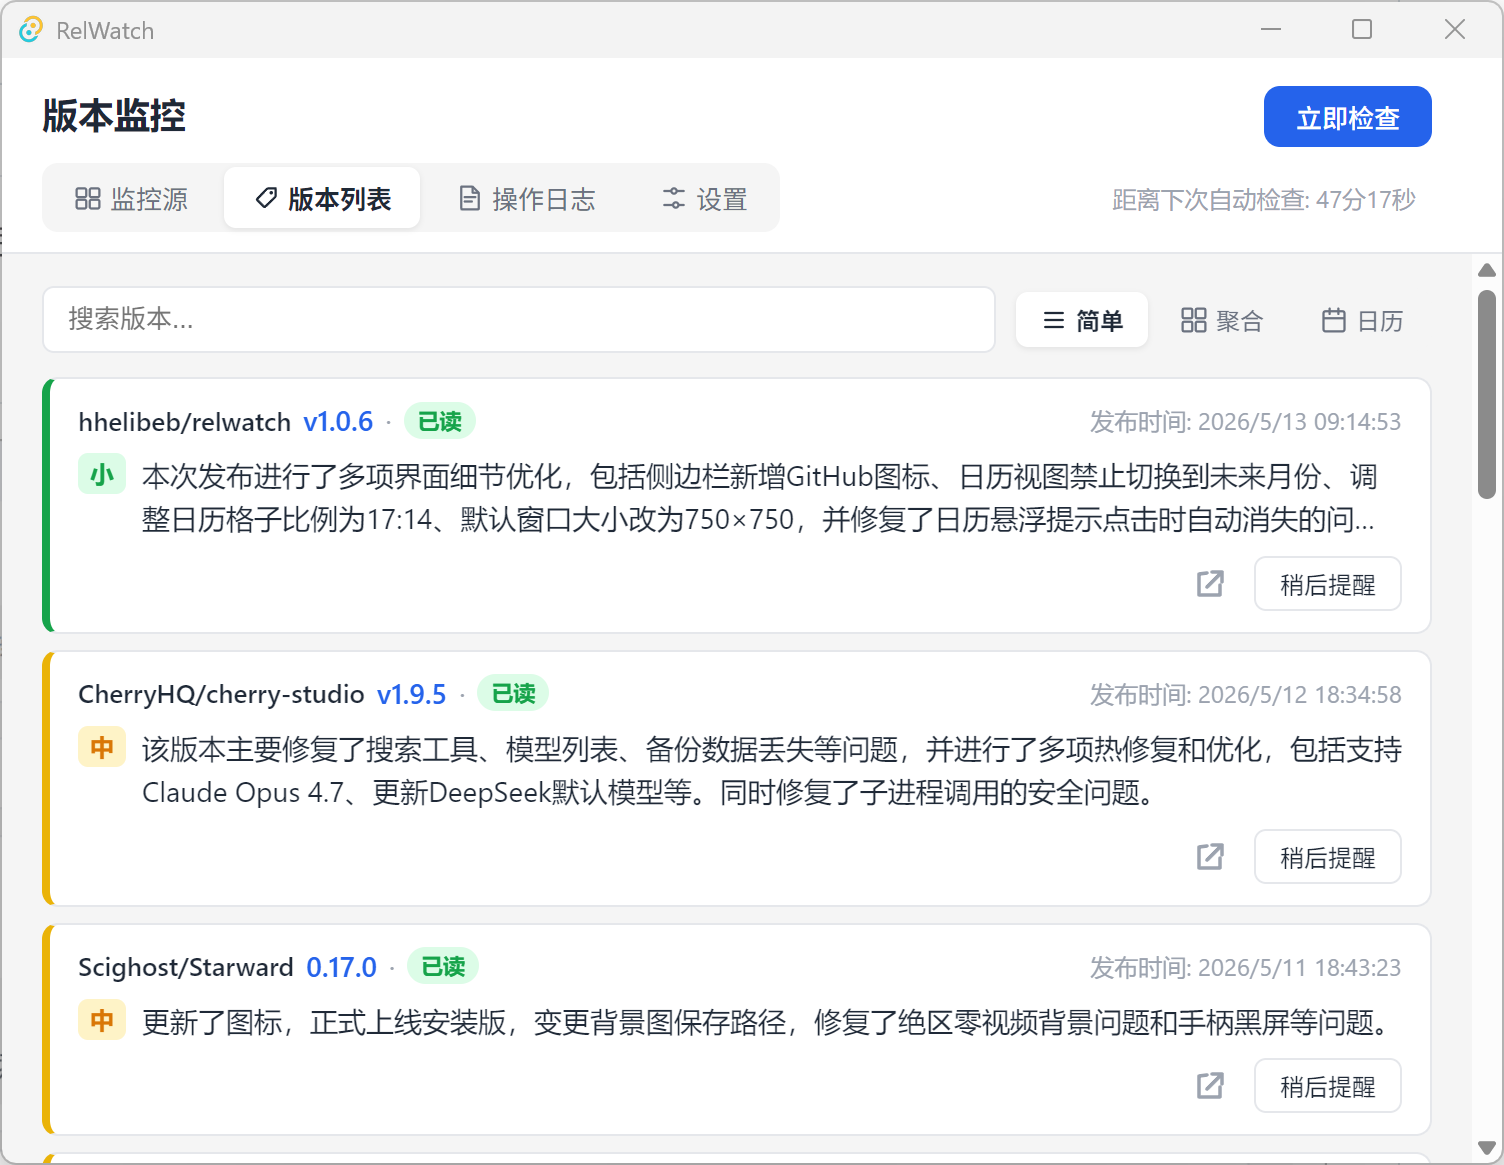
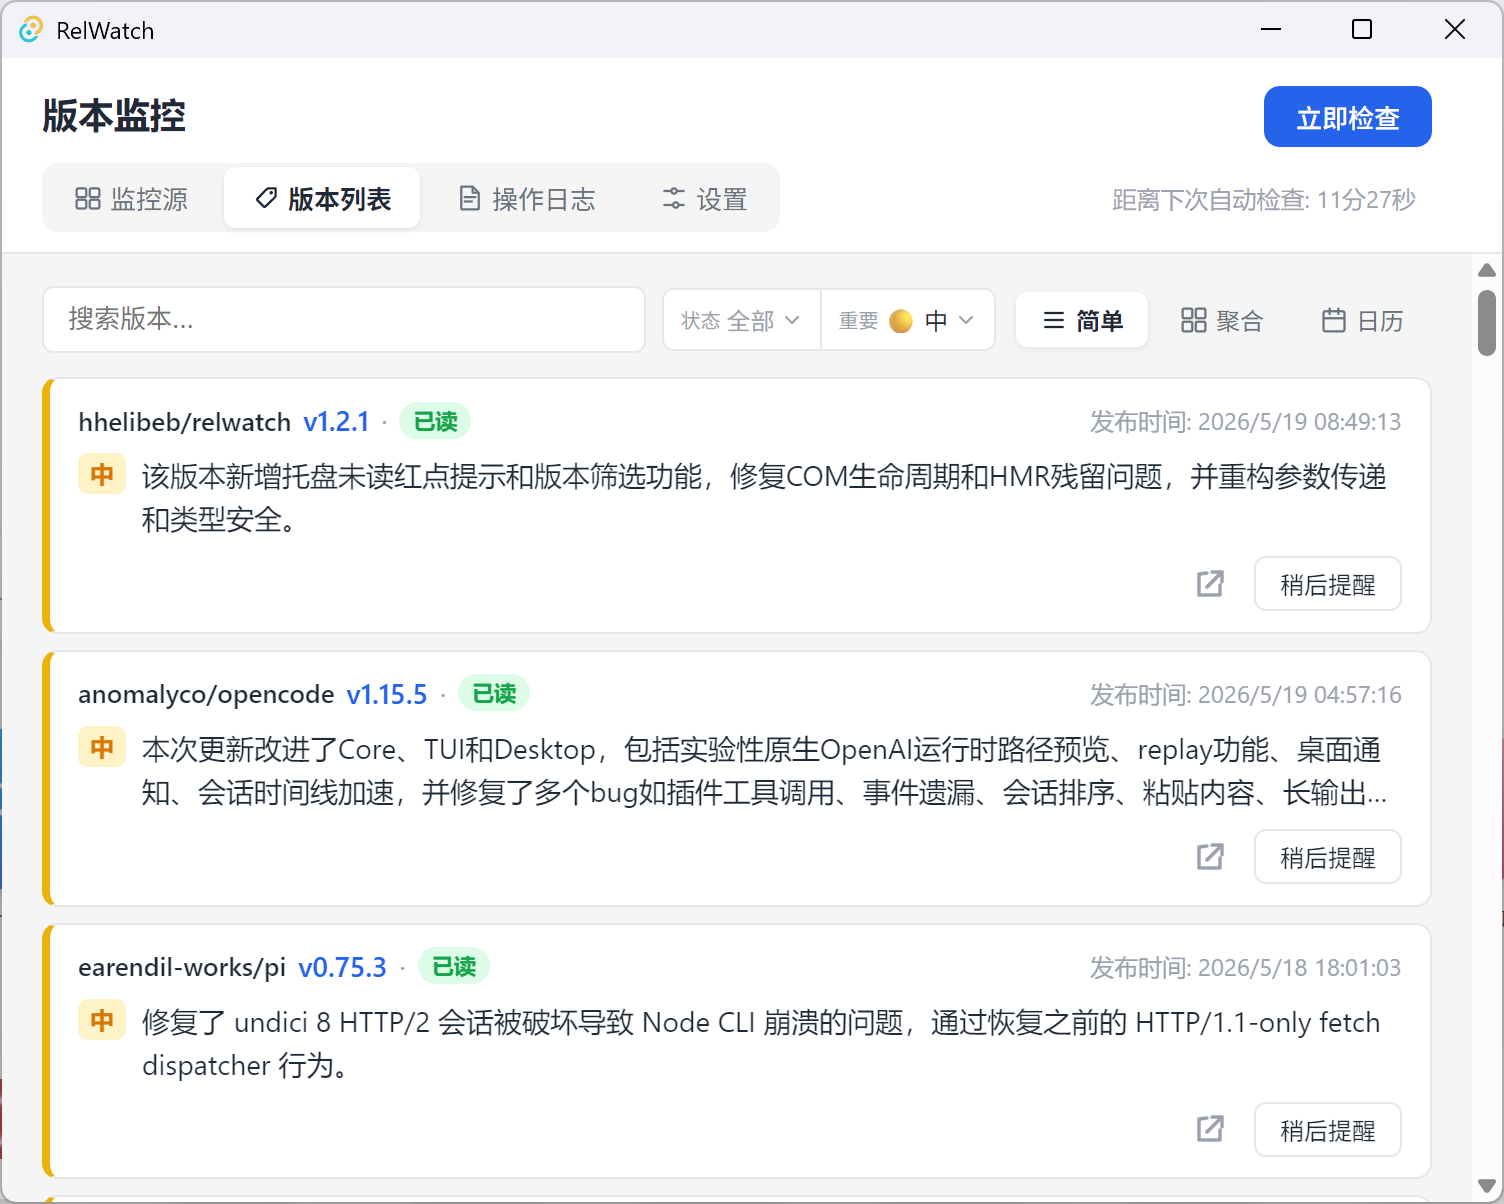
fix: 移除日历视图中重复的 ReleaseSearchBar，修复 sticky 头部定位
- 日历主视图和钻取视图中删除多余的 ReleaseSearchBar 实例
- 所有视图下 showSearch 统一为 true，搜索栏始终可见
- 修复 .add-source / .log-search-row 滚动时 sticky 定位偏移
- vitest.config.ts 添加 transformAssetUrls 抑制测试警告
- 新增回归测试确保各视图下仅渲染 1 个 ReleaseSearchBar
- 更新截图

diff --git a/src/__tests__/release-search-bar.test.ts b/src/__tests__/release-search-bar.test.ts
@@ -1,0 +1,116 @@
+import { describe, expect, it, vi } from 'vitest'
+import { shallowMount } from '@vue/test-utils'
+import ReleaseTab from '../components/ReleaseTab.vue'
+import ReleaseSearchBar from '../components/ReleaseSearchBar.vue'
+
+vi.mock('../api', () => ({
+  openReleaseUrl: vi.fn(),
+}))
+
+vi.mock('../i18n', () => ({
+  t: vi.fn((key: string) => key),
+  getLocale: vi.fn(() => 'en'),
+}))
+
+vi.mock('../utils', () => ({
+  formatDate: vi.fn(() => '2024-01-01'),
+  isReadStatus: vi.fn(() => false),
+  isUnreadStatus: vi.fn(() => false),
+  releaseMatchesSearch: vi.fn(() => true),
+}))
+
+function createRelease(overrides: Record<string, unknown> = {}) {
+  const now = new Date()
+  return {
+    id: 1,
+    source_id: 1,
+    source_type: 'github',
+    owner: 'test',
+    repo: 'test',
+    tag_name: 'v1.0.0',
+    release_name: 'Test',
+    html_url: 'https://github.com/test/test/releases/tag/v1.0.0',
+    published_at: now.toISOString(),
+    prerelease: false,
+    body: null,
+    detected_at: now.toISOString(),
+    notification_status: 'pending' as const,
+    snooze_until: null,
+    ai_summary: null,
+    ai_importance: null,
+    ...overrides,
+  }
+}
+
+function createWrapper(releases: Record<string, unknown>[] = []) {
+  return shallowMount(ReleaseTab, {
+    props: { releases },
+  })
+}
+
+describe('ReleaseTab — ReleaseSearchBar 单实例', () => {
+  it('简单视图（默认）：恰好渲染 1 个 ReleaseSearchBar', () => {
+    const wrapper = createWrapper()
+    expect(wrapper.findAllComponents(ReleaseSearchBar)).toHaveLength(1)
+  })
+
+  it('聚合视图：恰好渲染 1 个 ReleaseSearchBar', async () => {
+    const wrapper = createWrapper()
+    wrapper.findComponent(ReleaseSearchBar).vm.$emit('update:viewMode', 'aggregated')
+    await wrapper.vm.$nextTick()
+    expect(wrapper.findAllComponents(ReleaseSearchBar)).toHaveLength(1)
+  })
+
+  it('日历主视图：恰好渲染 1 个 ReleaseSearchBar', async () => {
+    const wrapper = createWrapper()
+    wrapper.findComponent(ReleaseSearchBar).vm.$emit('update:viewMode', 'calendar')
+    await wrapper.vm.$nextTick()
+    expect(wrapper.findAllComponents(ReleaseSearchBar)).toHaveLength(1)
+  })
+
+  it('日历钻取视图：恰好渲染 1 个 ReleaseSearchBar（不重复）', async () => {
+    const today = new Date()
+    const wrapper = createWrapper([createRelease({ published_at: today.toISOString() })])
+    wrapper.findComponent(ReleaseSearchBar).vm.$emit('update:viewMode', 'calendar')
+    await wrapper.vm.$nextTick()
+
+    // 点一个有内容的日历格子（calendar-cell-count-* 表示 count > 0）
+    const cell = wrapper.find('.calendar-cell.current-month.today')
+    expect(cell.exists()).toBe(true)
+    await cell.trigger('click')
+    await wrapper.vm.$nextTick()
+
+    // 确认已切换到钻取视图
+    expect(wrapper.find('.date-detail-title').exists()).toBe(true)
+    // 确认仍只有 1 个搜索栏（无重复）
+    expect(wrapper.findAllComponents(ReleaseSearchBar)).toHaveLength(1)
+  })
+})
+
+describe('ReleaseTab — ReleaseSearchBar showSearch', () => {
+  it('所有视图下 showSearch prop 始终为 true', async () => {
+    const today = new Date()
+    const wrapper = createWrapper([createRelease({ published_at: today.toISOString() })])
+    const bar = () => wrapper.findComponent(ReleaseSearchBar)
+
+    // 简单视图
+    expect(bar().props('showSearch')).toBe(true)
+
+    // 聚合视图
+    bar().vm.$emit('update:viewMode', 'aggregated')
+    await wrapper.vm.$nextTick()
+    expect(bar().props('showSearch')).toBe(true)
+
+    // 日历主视图
+    bar().vm.$emit('update:viewMode', 'calendar')
+    await wrapper.vm.$nextTick()
+    expect(bar().props('showSearch')).toBe(true)
+
+    // 日历钻取视图
+    const cell = wrapper.find('.calendar-cell.current-month.today')
+    await cell.trigger('click')
+    await wrapper.vm.$nextTick()
+    expect(wrapper.find('.date-detail-title').exists()).toBe(true)
+    expect(bar().props('showSearch')).toBe(true)
+  })
+})

diff --git a/src/components/ReleaseTab.vue b/src/components/ReleaseTab.vue
@@ -320,7 +320,7 @@ function handleOpenUrl(url: string) {
       v-model:statusFilter="statusFilter"
       v-model:importanceFilter="importanceFilter"
       v-model:viewMode="viewMode"
-      :showSearch="viewMode !== 'calendar' || selectedDate !== null"
+      :showSearch="true"
       @searchEnter="viewMode !== 'simple' ? expandAllSearchResults() : undefined"
     />
 
@@ -382,14 +382,6 @@ function handleOpenUrl(url: string) {
           <svg><use href="/icons.svg#chevron-left-icon"/></svg>
           {{ t('release.back_calendar') }}
         </button>
-        <ReleaseSearchBar
-          v-model="releaseSearch"
-          v-model:statusFilter="statusFilter"
-          v-model:importanceFilter="importanceFilter"
-          v-model:viewMode="viewMode"
-          :showSearch="true"
-          @searchEnter="expandAllSearchResults"
-        />
         <div class="date-detail-title">{{ dateDetailTitle }}</div>
         <div class="release-list">
           <div v-if="dateDetailReleases.length === 0" class="empty">{{ t('release.no_match') }}</div>
@@ -404,13 +396,6 @@ function handleOpenUrl(url: string) {
 
       <!-- 日历主视图 -->
       <template v-else>
-        <ReleaseSearchBar
-          v-model="releaseSearch"
-          v-model:statusFilter="statusFilter"
-          v-model:importanceFilter="importanceFilter"
-          v-model:viewMode="viewMode"
-          :showSearch="false"
-        />
         <div class="calendar-nav">
           <button @click="prevMonth">
             <svg><use href="/icons.svg#chevron-left-icon"/></svg>

diff --git a/src/style.css b/src/style.css
@@ -181,9 +181,11 @@ body {
   background: var(--surface);
   border-radius: var(--radius);
   border: 1px solid var(--border);
+  transition: top 0.15s ease;
 }
 
 .app-main.is-scrolled .add-source {
+  top: -16px;
   box-shadow: 0 2px 6px rgba(0,0,0,0.06);
 }
 
@@ -566,8 +568,9 @@ body {
   gap: 8px;
   align-items: center;
   margin-bottom: 12px;
-  padding: 4px 0;
+  padding: 0;
   background: var(--bg);
+  transition: top 0.15s ease;
 }
 
 .btn-icon {
@@ -1304,8 +1307,9 @@ select.setting-input {
   gap: 8px;
   align-items: center;
   margin-bottom: 12px;
-  padding: 4px 0;
+  padding: 0;
   background: var(--bg);
+  transition: top 0.15s ease;
 }
 
 .log-search-row .search-input {
@@ -1329,6 +1333,7 @@ select.setting-input {
 /* 滚动后 sticky 元素显示分隔线 */
 .app-main.is-scrolled .log-search-row,
 .app-main.is-scrolled .log-search {
+  top: -16px;
   border-radius: var(--radius);
   box-shadow: 0 0 0 1px var(--border), 0 2px 6px rgba(0,0,0,0.04);
 }

diff --git a/vitest.config.ts b/vitest.config.ts
@@ -2,7 +2,11 @@ import { defineConfig } from 'vitest/config'
 import vue from '@vitejs/plugin-vue'
 
 export default defineConfig({
-  plugins: [vue()],
+  plugins: [vue({
+    template: {
+      transformAssetUrls: false,
+    },
+  })],
   test: {
     environment: 'jsdom',
     globals: true,
